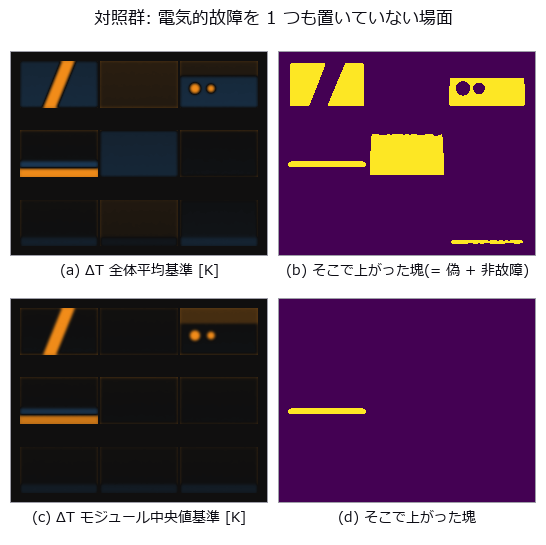
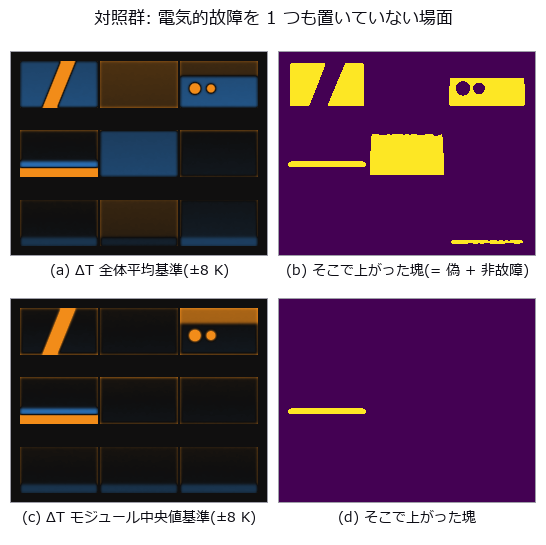
auto: poc_pv_thermal_survey.py 編集前 (2026-09-08 03:36)

diff --git a/acoustics.py b/acoustics.py
@@ -158,7 +158,7 @@ __all__ = [
     "octave_bands", "octave_spectrum", "weighting_response", "apply_weighting",
     "equivalent_level", "percentile_level",
     # two-channel
-    "coherence", "transfer_function",
+    "coherence", "transfer_function", "gcc_delay",
     # limits
     "MAX_SAMPLES", "MAX_WINDOW", "MAX_STFT_ELEMENTS", "MAX_BANDS",
     "MAX_ANGULAR_SAMPLES", "FLOOR_DB",
@@ -2522,3 +2522,108 @@ def transfer_function(x, y, rate, win=None, hop=None, window="hann",
         "estimator": est, "n_frames": nf, "win": w_len, "hop": h,
         "rate": fs, "ref": r,
     }
+
+
+def gcc_delay(a, b, rate=1.0, weight="phat", band=None, interpolate=True):
+    """2 チャンネルの**到達時間差**を一般化相互相関(GCC)で測る。→ ``(delay, table)``。
+
+    漏水の位置決め、音源の方向、超音波の肉厚、振動の伝搬 —— どれも「同じ源が 2 か所に
+    いつ着いたか」の差で決まる。この op はその差を**秒**(``rate`` が既定 1.0 なら標本)で
+    返す。位置に直すには経路長と伝搬速度を掛ける(``x = (L - c·delay) / 2`` の形)。
+
+    ★**速度の仮定がそのまま位置の誤差になる**。相関がどれだけ綺麗でも、掛ける速度が
+    10 % 違えば位置は経路の中心からの距離に比例してずれる(`poc_leak_localization` の
+    実測: 中心から 18 m の漏水で +1.798 m、幾何の予測 1.800 m)。相関の質と位置の
+    正しさは**別の量**なので、報告では分けること。
+
+    Args:
+        a, b: 同じ長さの 1-D 記録。**``b`` が ``a`` より遅れていれば ``delay`` は正**
+            (``b(t) ≈ a(t - delay)``)。
+        rate: 標本化周波数 [Hz]。既定 1.0 のときは返りの単位が「標本」。
+        weight: 相互スペクトルの重み。
+            ``"none"`` = 素の相互相関(SNR が高く反射が無ければ最良)、
+            ``"phat"`` = 位相変換(振幅を白色化。残響に強いとされる)、
+            ``"roth"`` = ``1/|A|²``、``"scot"`` = ``1/sqrt(|A|²|B|²)``。
+            ★**PHAT が常に勝つわけではない**: 反射が非対称な経路では遅延そのものが
+            偏るので、どの重みでも取り除けない(実測: 反射 0.8 で raw 0.134 m /
+            PHAT 0.114 m と 1 割しか違わず、RMS はほぼ全部が偏り)。
+        band: ``(lo_hz, hi_hz)`` で帯域を絞る(``rate`` が要る)。``None`` で全帯域。
+            全帯域の PHAT は信号の無いビンまで持ち上げるので、**帯域を切るほうが
+            効くことが多い**(実測で 8 倍)。
+        interpolate: ピーク周りの放物線補間でサブ標本まで読む(既定 True)。
+            切ると量子化の刻みが**散らばりでなく偏り**として残る(位置を固定すると
+            毎回同じ方向に外す。PIV のピークロッキングと同じ)。
+
+    Returns:
+        ``(delay, table)``: ``delay`` は秒(``rate=1.0`` なら標本)の float。
+        ``table`` は ``{"lags": (2N-1,) の遅れ, "r": 相関値, "peak": ピーク値,
+        "snr_peak": ピーク / 副次ピークの比}``。
+
+        ★台帳経由(``fullseye.ledger.gcc_delay``)は宣言 out 型の ``delay`` だけを
+        返す。相関曲線も要るときは ``fullseye.ledger.gcc_delay.raw(...)``。
+
+    Raises:
+        ValueError: 長さが違う / 2 未満 / 非有限、``weight`` が未知、``band`` が
+        ``(lo, hi)`` でない・``lo >= hi``・``rate`` に対して無効なとき。
+
+    **限界(honest)**: (1) 反射・分散・経路差が作る**偏り**は取れない ——
+    取れるのは雑音による散らばりだけ。(2) 相関のピークを 1 つ選ぶので、
+    多重路で副次ピークが勝つと**不連続に**外す(``snr_peak`` を見ること)。
+    (3) 遅延が記録長の半分を超えると折り返す。
+
+    Reference (public): C. H. Knapp, G. C. Carter, "The Generalized Correlation
+    Method for Estimation of Time Delay", IEEE Trans. ASSP 24(4), 1976, 320-327.
+    """
+    x = _as_signal(a, "a", "gcc_delay")
+    y = _as_signal(b, "b", "gcc_delay")
+    if x.size != y.size:
+        raise ValueError("gcc_delay: a and b must have the same length "
+                         "(got %d and %d) — they are two records of one event"
+                         % (x.size, y.size))
+    fsr = _rate(rate)
+    w = _check_choice(weight, ("none", "phat", "roth", "scot"), "weight", "gcc_delay")
+
+    n = int(x.size)
+    nfft = int(2 ** int(np.ceil(np.log2(2 * n - 1))))
+    A = np.fft.rfft(x - x.mean(), nfft)
+    B = np.fft.rfft(y - y.mean(), nfft)
+    R = B * np.conj(A)                          # b が遅れていれば正のラグにピーク
+    eps = 1e-20
+    if w == "phat":
+        R = R / (np.abs(R) + eps)
+    elif w == "roth":
+        R = R / (np.abs(A) ** 2 + eps)
+    elif w == "scot":
+        R = R / (np.sqrt(np.abs(A) ** 2 * np.abs(B) ** 2) + eps)
+    if band is not None:
+        try:
+            lo, hi = (float(v) for v in band)
+        except (TypeError, ValueError) as exc:
+            raise ValueError("gcc_delay: band must be (lo_hz, hi_hz)") from exc
+        if not (np.isfinite(lo) and np.isfinite(hi)) or lo >= hi or lo < 0:
+            raise ValueError("gcc_delay: band must satisfy 0 <= lo < hi (got %r)" % (band,))
+        freqs = np.fft.rfftfreq(nfft, 1.0 / fsr)
+        R = np.where((freqs >= lo) & (freqs <= hi), R, 0.0)
+        if not np.any(R):
+            raise ValueError("gcc_delay: band %g..%g Hz contains no frequency bin at "
+                             "rate %g Hz — the correlation would be identically zero"
+                             % (lo, hi, fsr))
+    r = np.fft.irfft(R, nfft)
+    r = np.concatenate([r[-(n - 1):], r[:n]])   # ラグ -(n-1) .. +(n-1)
+    lags = np.arange(-(n - 1), n, dtype=np.float64)
+    k = int(np.argmax(r))
+    shift = 0.0
+    if interpolate and 0 < k < len(r) - 1:      # 放物線補間(サブ標本)
+        y0, y1, y2 = float(r[k - 1]), float(r[k]), float(r[k + 1])
+        den = y0 - 2.0 * y1 + y2
+        if abs(den) > 1e-30:
+            shift = 0.5 * (y0 - y2) / den
+            shift = float(np.clip(shift, -1.0, 1.0))
+    # 副次ピーク(主ピークの ±3 標本を外して最大)—— 1 つ選ぶ判断の確からしさ
+    mask = np.ones(len(r), bool)
+    mask[max(0, k - 3):k + 4] = False
+    second = float(np.max(r[mask])) if np.any(mask) else 0.0
+    peak = float(r[k])
+    table = {"lags": lags / fsr, "r": r, "peak": peak,
+             "snr_peak": float(peak / second) if second > 0 else float("inf")}
+    return float((lags[k] + shift) / fsr), table

diff --git a/examples/poc_pv_thermal_survey.py b/examples/poc_pv_thermal_survey.py
@@ -1161,10 +1161,14 @@ def section_figures(base: dict, norms: dict) -> None:
     d_mean = detect(t0, gt, "全体平均")
     d_med = detect(t0, gt, "モジュール中央値")
     figs.save_grid("false_map",
-                   [d_mean["delta"], d_mean["mask"].astype(float),
-                    d_med["delta"], d_med["mask"].astype(float)],
-                   ["ΔT 全体平均基準 [K]", "そこで上がった塊(= 偽 + 非故障)",
-                    "ΔT モジュール中央値基準 [K]", "そこで上がった塊"],
+                   [np.clip(d_mean["delta"], -clip, clip),
+                    d_mean["mask"].astype(float),
+                    np.clip(d_med["delta"], -clip, clip),
+                    d_med["mask"].astype(float)],
+                   ["ΔT 全体平均基準(±%.0f K)" % clip,
+                    "そこで上がった塊(= 偽 + 非故障)",
+                    "ΔT モジュール中央値基準(±%.0f K)" % clip,
+                    "そこで上がった塊"],
                    ncols=2, signed=[True, False, True, False],
                    title="対照群: 電気的故障を 1 つも置いていない場面",
                    caption="上段の塊はすべて偽か非故障の温度差。基準の取り方"

diff --git a/opsacoustics.py b/opsacoustics.py
@@ -176,6 +176,10 @@ _CATALOG = {
     "dual": [
         ("coherence", "acoustics", ["signal", "signal"], "table"),
         ("transfer_function", "acoustics", ["signal", "signal"], "table"),
+        # 2026-09-08 追加。1-D の相互相関 / GCC / 到達時間差の口がどの層にも無く、
+        # 漏水位置決めと設備保全の PoC が 3-D の correlation_score を (1,1,N) に
+        # reshape して使っていた(KNOWN_ISSUES §41.14)。返りは (delay, table)。
+        ("gcc_delay", "acoustics", ["signal", "signal"], "measurement"),
     ],
 }
 
@@ -230,7 +234,11 @@ def categories():
 #:
 #: タプル返しの op を将来足すならここに登録すること(空欄を埋めるために既存の
 #: 返り型をタプルへ変える、は本末転倒なのでしない)。
-RESULT_ADAPTERS = {}
+# gcc_delay は (delay, table) を返す。宣言 out は遅延なので本体値を剥がす。
+# 相関曲線が要る呼び手は .raw / 素の関数を使う。
+RESULT_ADAPTERS = {
+    "gcc_delay": lambda r: r[0] if isinstance(r, tuple) else r,
+}
 
 
 def get(name):
